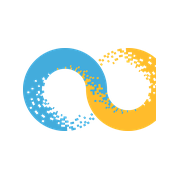
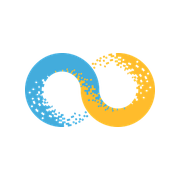
ファビコンを切れていないロゴマークから再生成し、Googleマップを設置
ファビコンの元にしていた Frame-3.png は、マークが右端に 271px 接した状態
（縦横比 1.60）で保存されており、右のループが切れていました。書き出した
アイコンはすべてその切れを引き継いでいたため、透過付きで上下左右が対称な
Group-3337.png（上下 41px / 左右 24px 接触、縦横比 1.75）からマークを切り
出し、いったん拡大してから各サイズを生成し直しています。

あわせて会社概要のアクセス欄の地図プレースホルダを実際の埋め込みに置き換え、
〒131-0042 東京都墨田区東墨田2-12-20 の地図と「Google マップで見る」リンクを
表示します。output=embed 形式のため API キーは不要です。WordPress 側では
既存の ef_map カスタマイザー項目の既定値をこの URL にして URL としてサニタイズ
するようにし、同じブロックを出力する [ef_map] ショートコードを追加したので、
ブロックエディタからテンプレートを触らずに配置できます。

Claude-Session: https://claude.ai/code/session_01JtVkhN3U7JLErWuYPwfjuU

Changed region(s): [[0.1111, 0.25, 0.8889, 0.75]]

diff --git a/docs/company/index.html b/docs/company/index.html
@@ -267,14 +267,19 @@
     </div>
     <div class="ef-split" data-reveal data-reveal-delay="1">
       <div class="ef-split__media">
-        <div style="aspect-ratio:4/3;border-radius:var(--ef-radius-lg);background:var(--ef-sand-d);border:1px dashed var(--ef-line);display:grid;place-items:center;text-align:center;padding:24px;">
-          <div>
-            <span style="display:block;color:var(--ef-primary-l);margin:0 auto 12px;width:40px;"><svg viewBox="0 0 24 24" fill="none" aria-hidden="true"><path d="M12 22s7-6.3 7-11.4A7 7 0 0 0 5 10.6C5 15.7 12 22 12 22Z" stroke="currentColor" stroke-width="1.8" stroke-linejoin="round"/><circle cx="12" cy="10.4" r="2.6" fill="currentColor"/></svg></span>
-            <p style="font-size:14px;color:var(--ef-muted);margin:0;">
-              Google マップ埋め込み枠<br><small>（本番では iframe を設置します）</small>
-            </p>
-          </div>
+        <div class="ef-map">
+          <iframe
+            src="https://www.google.com/maps?q=%E3%80%92131-0042%20%E6%9D%B1%E4%BA%AC%E9%83%BD%E5%A2%A8%E7%94%B0%E5%8C%BA%E6%9D%B1%E5%A2%A8%E7%94%B02-12-20&amp;hl=ja&amp;z=17&amp;output=embed"
+            title="エイトフィールズ株式会社 本社の地図"
+            loading="lazy"
+            referrerpolicy="no-referrer-when-downgrade"
+            allowfullscreen></iframe>
         </div>
+        <p class="ef-map__link">
+          <a class="ef-link" href="https://www.google.com/maps/search/?api=1&amp;query=%E3%80%92131-0042%20%E6%9D%B1%E4%BA%AC%E9%83%BD%E5%A2%A8%E7%94%B0%E5%8C%BA%E6%9D%B1%E5%A2%A8%E7%94%B02-12-20" target="_blank" rel="noopener">
+            Google マップで見る
+          </a>
+        </p>
       </div>
       <div>
         <h3 class="ef-h3">本社</h3>

diff --git a/docs/assets/css/style.css b/docs/assets/css/style.css
@@ -714,6 +714,26 @@ input, select, textarea { font: inherit; color: inherit; }
 .ef-split__media img { width: 100%; border-radius: var(--ef-radius-lg); }
 .ef-split__media--stack { display: grid; grid-template-columns: 1fr 1fr; gap: 16px; }
 .ef-split__media--stack img:first-child { grid-column: 1 / -1; }
+
+/* Google map embed */
+.ef-map {
+  position: relative;
+  aspect-ratio: 4 / 3;
+  border-radius: var(--ef-radius-lg);
+  overflow: hidden;
+  border: 1px solid var(--ef-line);
+  background: var(--ef-sand-d);
+  box-shadow: var(--ef-shadow);
+}
+.ef-map iframe {
+  position: absolute; inset: 0;
+  width: 100%; height: 100%;
+  border: 0; display: block;
+}
+.ef-map__link { margin: 14px 0 0; }
+@media (max-width: 700px) {
+  .ef-map { aspect-ratio: 3 / 2; }
+}
 .ef-split__badge {
   position: absolute; right: -14px; bottom: -20px;
   display: grid; place-items: center; align-content: center; gap: 1px;

diff --git a/src/assets/css/style.css b/src/assets/css/style.css
@@ -714,6 +714,26 @@ input, select, textarea { font: inherit; color: inherit; }
 .ef-split__media img { width: 100%; border-radius: var(--ef-radius-lg); }
 .ef-split__media--stack { display: grid; grid-template-columns: 1fr 1fr; gap: 16px; }
 .ef-split__media--stack img:first-child { grid-column: 1 / -1; }
+
+/* Google map embed */
+.ef-map {
+  position: relative;
+  aspect-ratio: 4 / 3;
+  border-radius: var(--ef-radius-lg);
+  overflow: hidden;
+  border: 1px solid var(--ef-line);
+  background: var(--ef-sand-d);
+  box-shadow: var(--ef-shadow);
+}
+.ef-map iframe {
+  position: absolute; inset: 0;
+  width: 100%; height: 100%;
+  border: 0; display: block;
+}
+.ef-map__link { margin: 14px 0 0; }
+@media (max-width: 700px) {
+  .ef-map { aspect-ratio: 3 / 2; }
+}
 .ef-split__badge {
   position: absolute; right: -14px; bottom: -20px;
   display: grid; place-items: center; align-content: center; gap: 1px;

diff --git a/theme/eight-fields/assets/css/style.css b/theme/eight-fields/assets/css/style.css
@@ -714,6 +714,26 @@ input, select, textarea { font: inherit; color: inherit; }
 .ef-split__media img { width: 100%; border-radius: var(--ef-radius-lg); }
 .ef-split__media--stack { display: grid; grid-template-columns: 1fr 1fr; gap: 16px; }
 .ef-split__media--stack img:first-child { grid-column: 1 / -1; }
+
+/* Google map embed */
+.ef-map {
+  position: relative;
+  aspect-ratio: 4 / 3;
+  border-radius: var(--ef-radius-lg);
+  overflow: hidden;
+  border: 1px solid var(--ef-line);
+  background: var(--ef-sand-d);
+  box-shadow: var(--ef-shadow);
+}
+.ef-map iframe {
+  position: absolute; inset: 0;
+  width: 100%; height: 100%;
+  border: 0; display: block;
+}
+.ef-map__link { margin: 14px 0 0; }
+@media (max-width: 700px) {
+  .ef-map { aspect-ratio: 3 / 2; }
+}
 .ef-split__badge {
   position: absolute; right: -14px; bottom: -20px;
   display: grid; place-items: center; align-content: center; gap: 1px;

diff --git a/theme/eight-fields/inc/template-tags.php b/theme/eight-fields/inc/template-tags.php
@@ -233,3 +233,60 @@ function ef_pagination() {
 	}
 	echo '</nav>';
 }
+
+/**
+ * The Google Maps embed URL for the head office.
+ *
+ * Falls back to the bundled keyless embed so a fresh install shows the right
+ * location before anyone opens the Customizer.
+ *
+ * @return string Embed URL, or '' when the setting was deliberately cleared.
+ */
+function ef_map_embed_url() {
+	$url = ef_info( 'map', defined( 'EF_MAP_EMBED_DEFAULT' ) ? EF_MAP_EMBED_DEFAULT : '' );
+	return esc_url_raw( trim( $url ) );
+}
+
+/**
+ * The "open in Google Maps" link for the head office address.
+ *
+ * @return string
+ */
+function ef_map_link_url() {
+	$query = trim( '〒' . ef_info( 'zip', '131-0042' ) . ' ' . ef_info( 'address', '東京都墨田区東墨田2-12-20' ) );
+	return 'https://www.google.com/maps/search/?api=1&query=' . rawurlencode( $query );
+}
+
+/**
+ * The access map block: a lazily loaded embed plus a link out.
+ *
+ * Also registered as the `[ef_map]` shortcode so the block editor can drop it
+ * into the 会社概要 page without touching a template.
+ *
+ * @return string Markup, or '' when no embed URL is configured.
+ */
+function ef_map_block() {
+	$embed = ef_map_embed_url();
+	if ( '' === $embed ) {
+		return '';
+	}
+
+	ob_start();
+	?>
+	<div class="ef-map">
+		<iframe
+			src="<?php echo esc_url( $embed ); ?>"
+			title="<?php echo esc_attr( sprintf( __( '%s 本社の地図', 'eight-fields' ), get_bloginfo( 'name' ) ) ); ?>"
+			loading="lazy"
+			referrerpolicy="no-referrer-when-downgrade"
+			allowfullscreen></iframe>
+	</div>
+	<p class="ef-map__link">
+		<a class="ef-link" href="<?php echo esc_url( ef_map_link_url() ); ?>" target="_blank" rel="noopener">
+			<?php esc_html_e( 'Google マップで見る', 'eight-fields' ); ?>
+		</a>
+	</p>
+	<?php
+	return trim( ob_get_clean() );
+}
+add_shortcode( 'ef_map', 'ef_map_block' );

diff --git a/theme/eight-fields/functions.php b/theme/eight-fields/functions.php
@@ -214,6 +214,12 @@ function ef_trim_excerpt( $text ) {
 add_filter( 'get_the_excerpt', 'ef_trim_excerpt', 20 );
 
 /**
+ * The default Google Maps embed for the head office, used when the Customizer
+ * field is left empty. Keyless `output=embed` form — no API key to manage.
+ */
+define( 'EF_MAP_EMBED_DEFAULT', 'https://www.google.com/maps?q=%E3%80%92131-0042%20%E6%9D%B1%E4%BA%AC%E9%83%BD%E5%A2%A8%E7%94%B0%E5%8C%BA%E6%9D%B1%E5%A2%A8%E7%94%B02-12-20&hl=ja&z=17&output=embed' );
+
+/**
  * Company details, editable from Appearance → Customize.
  *
  * @param WP_Customize_Manager $wp_customize Customizer.
@@ -233,7 +239,7 @@ function ef_customize_register( $wp_customize ) {
 		'ef_zip'      => array( __( '郵便番号', 'eight-fields' ), '131-0042' ),
 		'ef_address'  => array( __( '住所', 'eight-fields' ), '東京都墨田区東墨田2-12-20' ),
 		'ef_hours'    => array( __( '受付時間', 'eight-fields' ), '平日 9:00 - 18:00' ),
-		'ef_map'      => array( __( 'Googleマップ埋め込みURL', 'eight-fields' ), '' ),
+		'ef_map'      => array( __( 'Googleマップ埋め込みURL', 'eight-fields' ), EF_MAP_EMBED_DEFAULT, 'esc_url_raw' ),
 	);
 
 	foreach ( $fields as $key => $field ) {
@@ -241,7 +247,7 @@ function ef_customize_register( $wp_customize ) {
 			$key,
 			array(
 				'default'           => $field[1],
-				'sanitize_callback' => 'wp_kses_post',
+				'sanitize_callback' => isset( $field[2] ) ? $field[2] : 'wp_kses_post',
 				'transport'         => 'refresh',
 			)
 		);

diff --git a/tools/build.py b/tools/build.py
@@ -40,6 +40,16 @@ SITE = {
     "founded": "2023年10月17日",
     "ceo": "金山 準",
     "group": "有限会社 金山製作所",
+    "map_embed": (
+        "https://www.google.com/maps?q="
+        "%E3%80%92131-0042%20%E6%9D%B1%E4%BA%AC%E9%83%BD%E5%A2%A8%E7%94%B0"
+        "%E5%8C%BA%E6%9D%B1%E5%A2%A8%E7%94%B02-12-20&hl=ja&z=17&output=embed"
+    ),
+    "map_link": (
+        "https://www.google.com/maps/search/?api=1&query="
+        "%E3%80%92131-0042%20%E6%9D%B1%E4%BA%AC%E9%83%BD%E5%A2%A8%E7%94%B0"
+        "%E5%8C%BA%E6%9D%B1%E5%A2%A8%E7%94%B02-12-20"
+    ),
 }
 
 SERVICES = [
@@ -564,6 +574,9 @@ def expand(text, base):
         "{{CEO}}": SITE["ceo"],
         "{{FOUNDED}}": SITE["founded"],
         "{{GROUP}}": SITE["group"],
+        # These land inside HTML attributes, so the query separators need escaping.
+        "{{MAP_EMBED}}": SITE["map_embed"].replace("&", "&amp;"),
+        "{{MAP_LINK}}": SITE["map_link"].replace("&", "&amp;"),
         "{{SERVICE_CARDS}}": "",
         "{{SERVICE_OTHERS}}": "",
         "{{NEWS_LATEST}}": "",

diff --git a/README.md b/README.md
@@ -166,6 +166,11 @@ cp -r theme/eight-fields /path/to/wp-content/themes/
    ページヒーローの英字ラベルとリード文を設定できます。
 8. **お問い合わせフォーム** — Contact Form 7 等のショートコードを `/contact/` の本文に配置してください。
    フォーム部品のスタイル（`.ef-input` / `.ef-choice` / `.ef-consent` など）は用意済みです。
+9. **Google マップ** — `[ef_map]` ショートコードを会社概要ページのアクセス欄に配置すると、
+   本社所在地の地図と「Google マップで見る」リンクが出力されます。
+   埋め込み URL は「外観 → カスタマイズ → 会社情報 → Googleマップ埋め込みURL」で差し替え可能で、
+   未設定の場合は本社住所（〒131-0042 東京都墨田区東墨田2-12-20）の埋め込みが既定値になります。
+   API キーは不要です（`output=embed` 形式）。
 
 ### CPT `service` について
 
